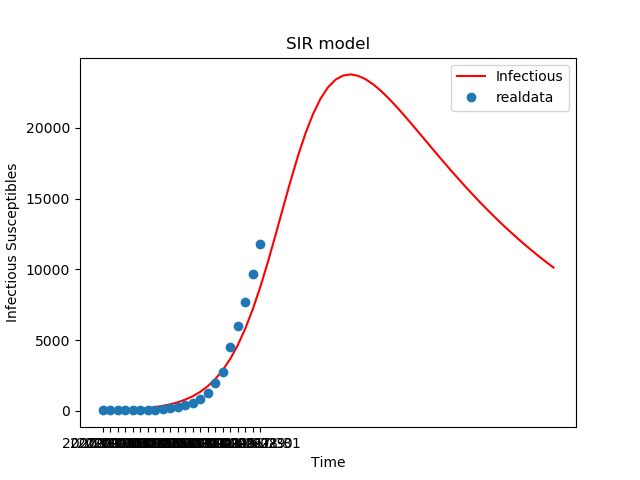
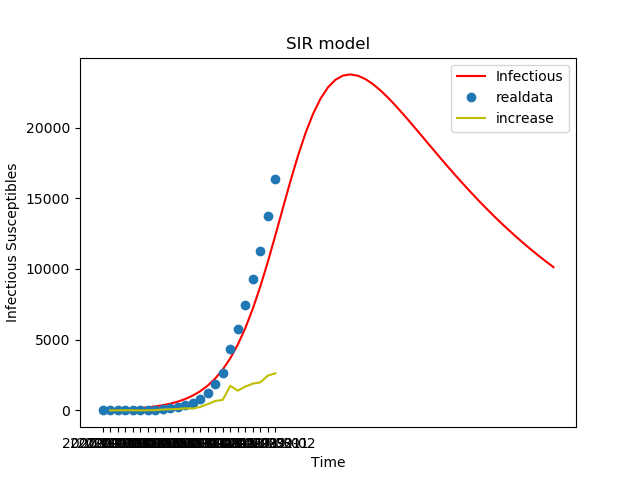
更新数据至2月2日，在绘图中增加每日新增病例数。

diff --git a/SIR.py b/SIR.py
@@ -52,14 +52,17 @@ if __name__ == "__main__":
 	
 	# 读取数据
 	data = pd.read_csv("data.csv", index_col = ["date"])
+	data["现有感染者"] = data["感染者"] - data["死亡"] - data["治愈"]
 	print(data)
+	
 	# 数据作图
 	fig = pl.figure()
 	pl.subplot(111)
-	pl.plot(data["感染者"], "-r", label = "infected")
+	pl.plot(data["现有感染者"], "-r", label = "infected")
 	pl.plot(data["疑似者"], "-g", label = "undecided")
 	pl.plot(data["死亡"], "-b", label = "death")
 	pl.plot(data["治愈"], "-k", label = "healed")
+	pl.plot(data["现有感染者"]-data["现有感染者"].shift(1), "-y", label = "increase")
 	pl.legend(loc = 0)
 	pl.title("real data")
 	pl.xlabel("Time")
@@ -122,7 +125,8 @@ if __name__ == "__main__":
 	fig = pl.figure()
 	pl.subplot(111)
 	pl.plot(RES[:, 1], "-r", label = "Infectious")
-	pl.plot(data["感染者"], "o", label = "realdata")
+	pl.plot(data["现有感染者"], "o", label = "realdata")
+	pl.plot(data["现有感染者"]-data["现有感染者"].shift(1), "-y", label = "increase")
 	pl.legend(loc = 0)
 	pl.title("SIR model")
 	pl.xlabel("Time")
